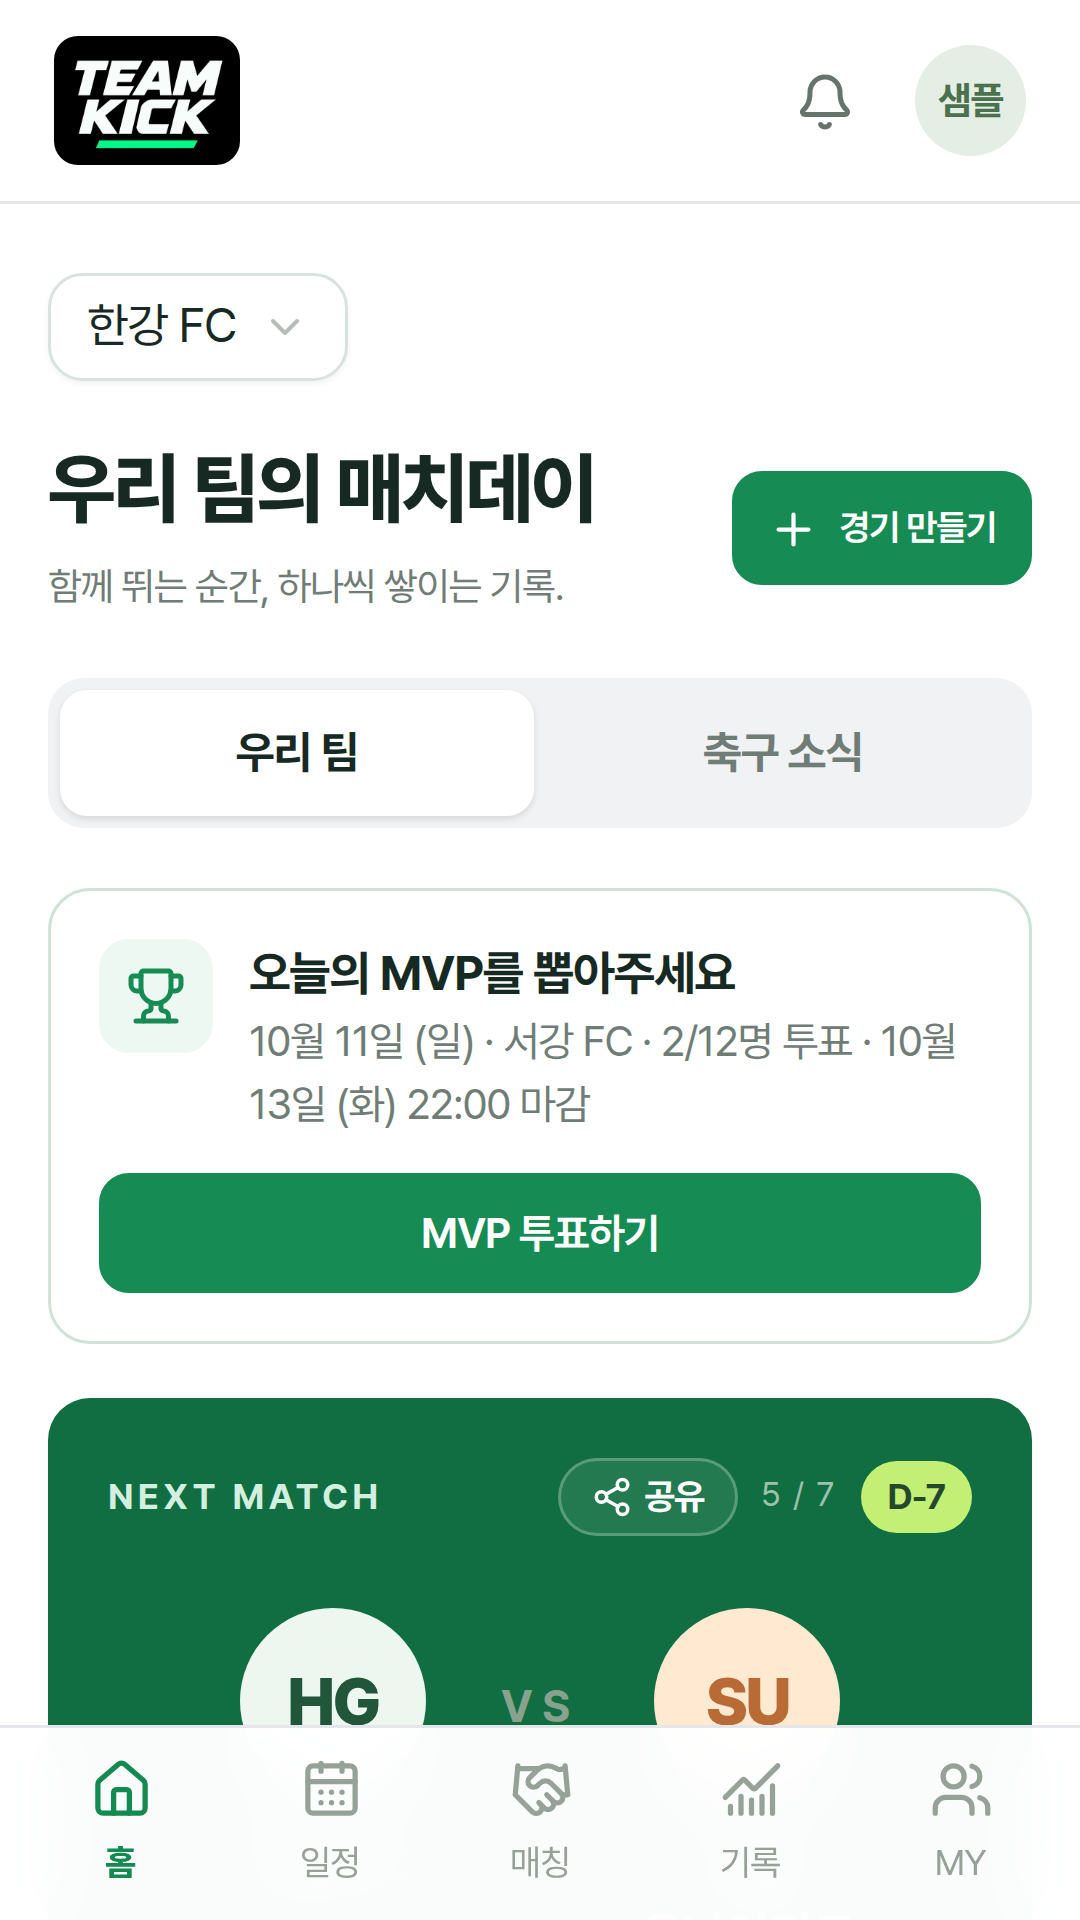
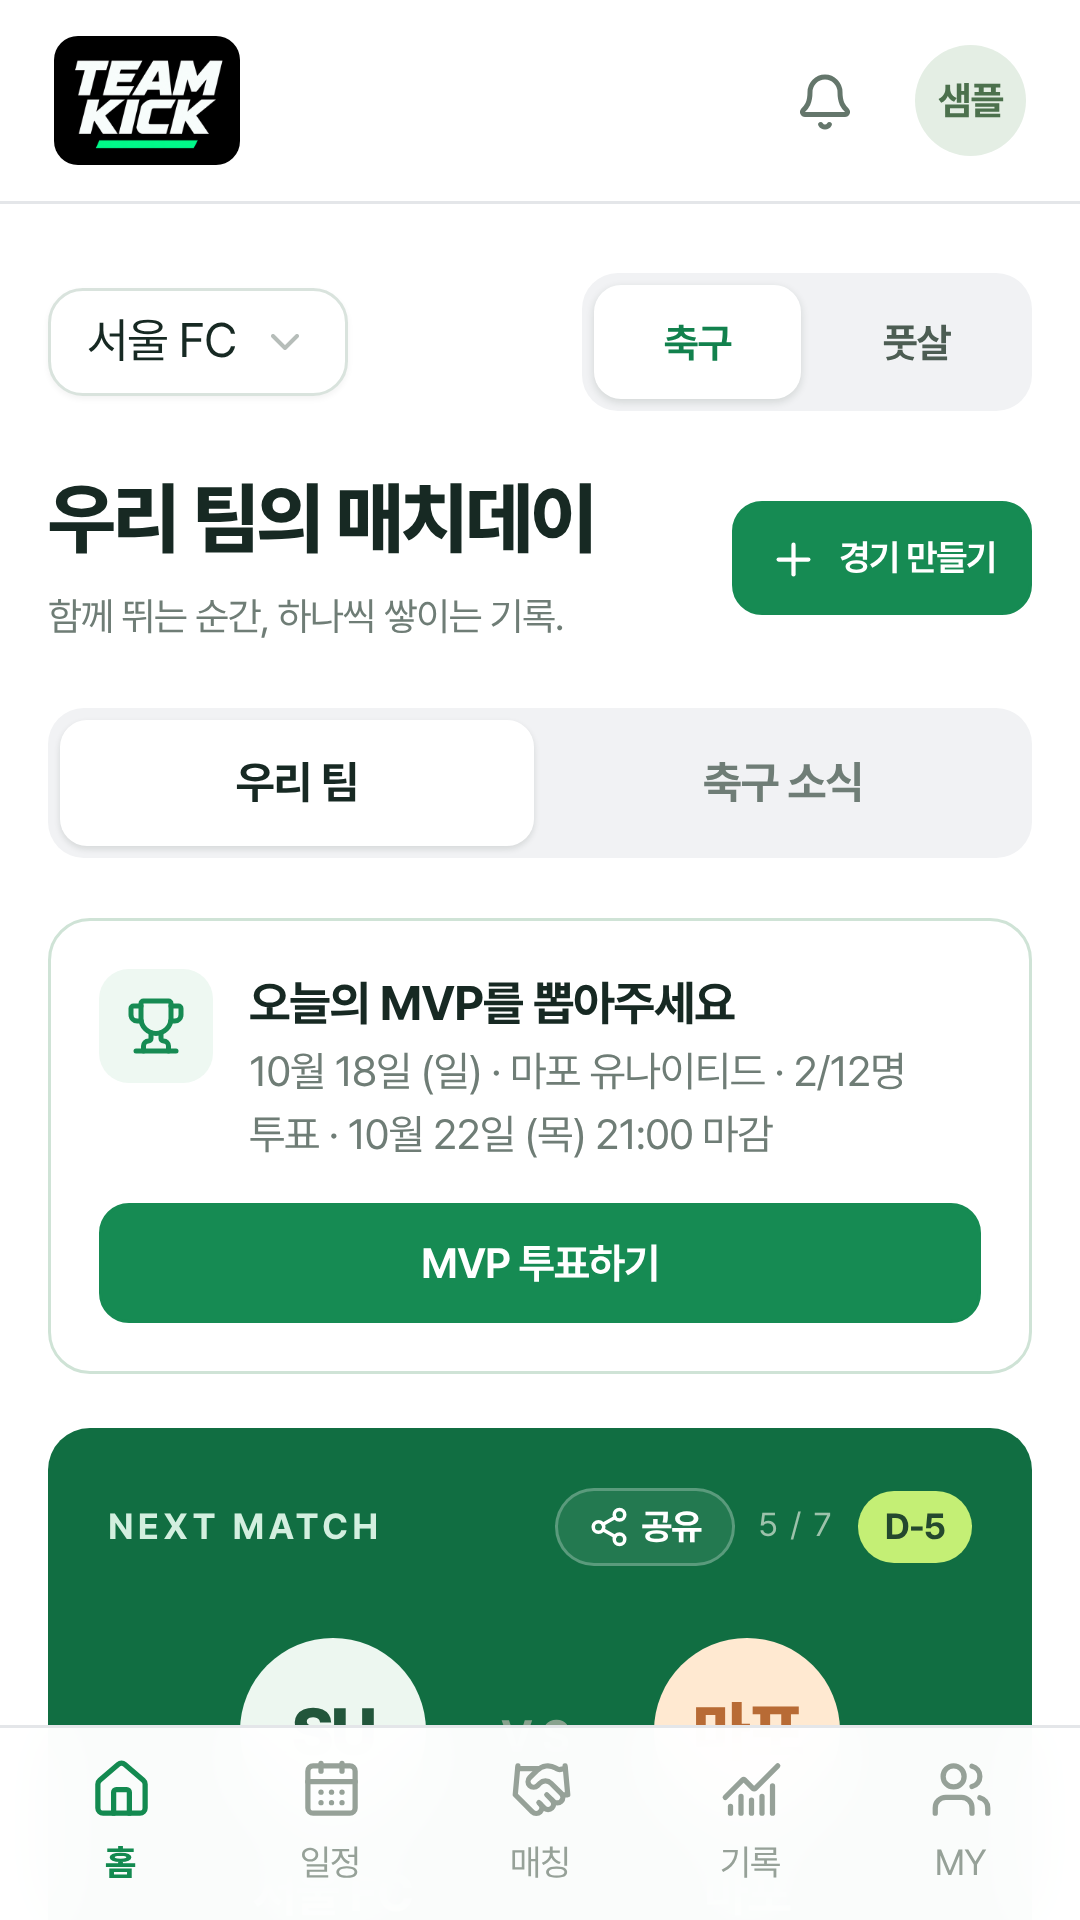
1.37.1: 출시 전 점검 — 스토어 스크린샷 새로, 샘플 상대 팀 이름(마포 유나이티드), 데이터 보안 항목 보강
Claude-Session: https://claude.ai/code/session_01DgqTe4BVpgwGF7str2R4qT

diff --git a/lib/demo.ts b/lib/demo.ts
@@ -2,7 +2,7 @@ import {blank,newSide,id,type State,type Row,iso} from "./model";
 export function demoState():State{
  const s=blank(),now=new Date(),d=new Date(now.getTime()+9*3600e3);d.setUTCHours(10,0,0,0);d.setUTCDate(d.getUTCDate()+((7-d.getUTCDay())%7||7));const next=d.getTime()-9*3600e3;
  s.settings=[{id:"owner",userId:"demo-a"}];
- s.teams=[{id:"team-a",name:"서울 FC",region:"서울",description:"일요일 아침, 함께 뛰는 즐거움. 매너 있는 축구를 지향하는 서울 FC입니다.",days:"일요일 오전",format:"11인제",level:"중",status:"active",applicant:"demo-a",applicantName:"김지훈",at:iso(next-90*864e5),color:"green"},{id:"team-b",name:"서울 유나이티드",region:"서울",description:"꾸준하게, 즐겁게 함께 뛰는 팀입니다.",days:"주말",format:"11인제",level:"중",status:"active",applicant:"demo-b",applicantName:"이준호",at:iso(next-60*864e5),color:"orange"},{id:"team-c",name:"분당 FC",region:"경기 남부",description:"신규 팀 등록을 신청합니다.",status:"pending",applicant:"demo-c",applicantName:"최민수",at:iso(),format:"11인제",color:"blue"}];
+ s.teams=[{id:"team-a",name:"서울 FC",region:"서울",description:"일요일 아침, 함께 뛰는 즐거움. 매너 있는 축구를 지향하는 서울 FC입니다.",days:"일요일 오전",format:"11인제",level:"중",status:"active",applicant:"demo-a",applicantName:"김지훈",at:iso(next-90*864e5),color:"green"},{id:"team-b",name:"마포 유나이티드",region:"서울",description:"꾸준하게, 즐겁게 함께 뛰는 팀입니다.",days:"주말",format:"11인제",level:"중",status:"active",applicant:"demo-b",applicantName:"이준호",at:iso(next-60*864e5),color:"orange"},{id:"team-c",name:"분당 FC",region:"경기 남부",description:"신규 팀 등록을 신청합니다.",status:"pending",applicant:"demo-c",applicantName:"최민수",at:iso(),format:"11인제",color:"blue"}];
  const names=["김지훈","김민준","이도현","정우진","김태훈","박성민","최현우","이준서","강민석","오지훈","한승우","윤서진","장민호","조영준"];
  for(const team of ["a","b"]){names.forEach((n,i)=>{const uid=i===0?"demo-"+team:"demo-"+team+"-"+i;s.users.push({id:uid,name:team==="a"?n:(i===0?"이준호":n)});s.members.push({id:team+"-p"+i,userId:uid,teamId:"team-"+team,name:team==="a"?n:i===0?"이준호":n,number:[7,10,9,8,6,4,5,11,14,17,20,1,3,12][i],position:i===11?"GK":i<3?"FW":i<7?"MF":"DF",role:i===0?"captain":i===3?"manager":"member",status:"active",periods:[{start:iso(next-120*864e5)}],at:iso()})})}
  s.members.push({id:"join-1",userId:"new-user",teamId:"team-a",name:"김지성",number:18,position:"MF",role:"member",status:"pending",periods:[],at:iso()});

diff --git a/lib/schema.ts b/lib/schema.ts
@@ -81,7 +81,7 @@ export const STATEMENTS=[
 
 // 배포된 코드가 어느 시점 것인지 화면으로 확인하기 위한 표시.
 // 스키마나 진단에 영향을 주는 변경을 할 때 함께 올린다.
-export const BUILD="2026-10-13-1500";
+export const BUILD="2026-10-20-1200";
 
 export const TABLES=["entities","state_revision","write_guards","accounts","sessions","password_resets","rate_limits","email_verifications","push_subs","closed_accounts","social_signups","chat_messages","chat_reads","chat_reports","scope_revisions","schema_meta","user_notifications","suspension_holds"];
 

diff --git a/lib/version.ts b/lib/version.ts
@@ -1,4 +1,4 @@
 // 화면 맨 아래에 보여주는 서비스 버전. 사용자가 "어느 버전을 쓰고 있는지"
 // 말할 수 있어야 문의를 받아 처리할 수 있다.
 // 기능이 늘면 가운데를, 고침만 있으면 끝자리를 올린다.
-export const APP_VERSION="1.37.0";
+export const APP_VERSION="1.37.1";

diff --git a/docs/store/README.md b/docs/store/README.md
@@ -1,4 +1,4 @@
-# 팀킥 Google Play 등록 자료 (2026-10-11 초안)
+# 팀킥 Google Play 등록 자료 (2026-10-11 초안, 2026-10-20 스크린샷·데이터 항목 갱신)
 
 앱은 웹(https://teamkick.co.kr)을 그대로 띄우는 TWA다(`android/`). 웹을 고치면 앱을 다시 올릴 필요가 없다.
 아이콘·이름·주소처럼 앱 설정을 바꿀 때만 **Android build** 를 다시 돌려 versionCode 를 올린다.
@@ -55,7 +55,7 @@
 |---|---|---|
 | `icon-512.png` | 512×512 | 앱 아이콘 |
 | `feature-graphic.png` | 1024×500 | 그래픽 이미지 |
-| `screenshots/1-home.png` ~ `5-my.png` | 1080×1920 | 휴대전화 스크린샷(샘플 팀 화면, 실제 이용자 정보 없음) |
+| `screenshots/1-home.png` ~ `6-chem.png` | 1080×1920 | 휴대전화 스크린샷 6장(샘플 팀 "서울 FC" 화면, 실제 이용자 정보 없음, 2026-10-20 1.37.0 으로 다시 찍음) |
 
 ## 3. 데이터 보안 양식(초안 — 처리방침과 같은 내용으로 고름)
 
@@ -71,7 +71,7 @@
 | 금융 정보 → 기타(팀 회비 계좌·토스·카카오페이 아이디) | 예 | 선택(주장·운영진) | 앱 기능(회비 안내) |
 | 메시지 → 기타 인앱 메시지 | 예 | 선택 | 앱 기능(팀·경기 대화) |
 | 사진 및 동영상 → 사진 | 예 | 선택 | 앱 기능(팀 로고·선수 사진·팀 사진) |
-| 앱 활동 → 기타 사용자 제작 콘텐츠 | 예 | 선택 | 앱 기능(경기·투표·기록·공지·문의·신고) |
+| 앱 활동 → 기타 사용자 제작 콘텐츠 | 예 | 선택 | 앱 기능(경기·투표·기록·골 기록·공지·문의·신고·관심 구장·용병 가능 등록(날짜·시간대·지역·한마디)) |
 | 기기 또는 기타 ID | 예 | 선택(알림을 켤 때) | 앱 기능(휴대폰 알림 구독 주소) |
 | 위치 | 아니요 | — | 기기 위치를 읽지 않음(구장 검색은 입력한 검색어만 보냄) |
 

diff --git a/TASKS.md b/TASKS.md
@@ -6,6 +6,14 @@
 `BLOCKED` / `DONE`(실제 실행 결과로 확인). 요구사항 본문은
 `PROJECT_CONTEXT.md`, 구조는 `ARCHITECTURE.md`를 본다.
 
+## T110 1.37.1 — 출시 전 점검 · 스토어 스크린샷 다시 찍기(2026-10-20)
+
+- [x] 샘플 상대 팀 이름 서울 유나이티드 → 마포 유나이티드(서울 FC 와 둘 다 "SU" 로 보여 헷갈림).
+- [x] `docs/store/screenshots/` 1~5 다시 찍음(1.37.1, 서울 FC, 샘플 안내 띠 숨김) + `6-chem.png`(마이 케미) 추가. 1080×1920.
+- [x] `docs/store/README.md` 데이터 보안: 사용자 제작 콘텐츠에 골 기록·관심 구장·용병 가능 등록 추가.
+- 점검 결과(남은 것): 심사용 계정(팀 만들기는 운영자 승인이라 심사관이 막힐 수 있음), Play 앱 서명 키 SHA-256 → assetlinks, 비공개 테스트 15명·14일, 실기기 확인(푸시·TK 아이콘·두 계정 알림·매칭 대화 — 비공개 테스트 기간에).
+- 업로드 키(`android/upload-key.p12`)는 공개 저장소에 있지만 24자 이상 비밀번호로 암호화돼 있고, Play 앱 서명을 쓰면 업로드 키는 잃어버려도 Play 에서 바꿀 수 있다 — 지금은 그대로 둔다.
+
 ## T109 1.37.0 — 팀 랭킹 문구 · 골 공 표시 · 포스터 로고 · 매칭 대화 안내 · 상단 프로필 사진 · 알림 창 크게(2026-10-13)
 
 - [x] 팀 랭킹: 승률·승리 탭은 "N경기 W승 D무 L패"(득실 뺌), 득점 탭은 "N경기 · 득점 X골 · 실점 Y골" + 오른쪽 X골.
